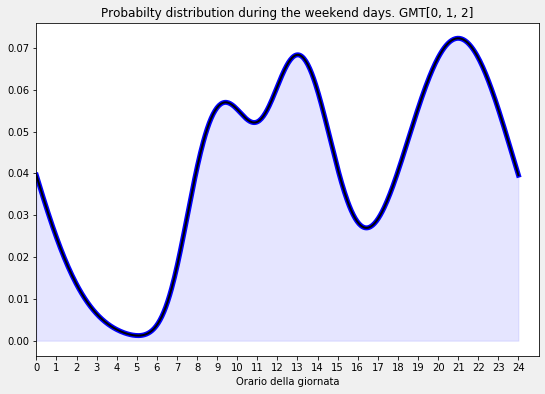
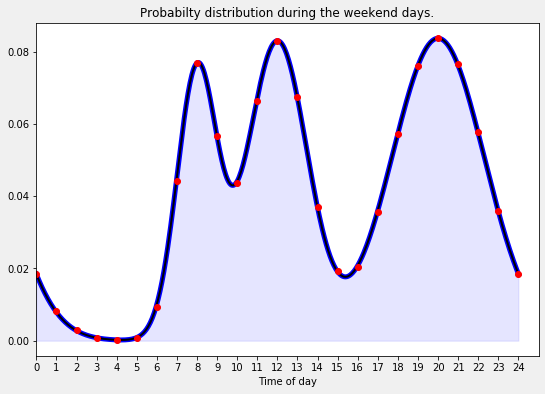
last changes

diff --git a/markov.py b/markov.py
@@ -70,7 +70,7 @@ if __name__ == "__main__":
     initial_state = "Entry"
     iterations = 11
 
-    offered_weight = [1, 3, 1.8, 0.01, 0.01, 0.01, 0.01, 15.5, 0.01, 0.01, 0.01]
+    offered_weight = [1, 1, 1, 1, 1, 1, 1, 150, 1, 1, 1]
 
     markov = MarkovAnalysis(states, initial_state, offered_weight)
 
@@ -95,8 +95,8 @@ if __name__ == "__main__":
     markov.add_transition("Visualizzare\nristorante",       "Scrivere\nrecensione",             0.10)
     markov.add_transition("Scrivere\nrecensione",           "Visualizzare\nristorante",         0.30)
     markov.add_transition("Scrivere\nrecensione",           "Caricamento file\nmultimediali",   0.50)
-    markov.add_transition("Aggiungere\npiatti",             "Visualizzare\nristorante",         0.30)
-    markov.add_transition("Aggiungere\npiatti",             "Paga",                             0.60)
+    markov.add_transition("Aggiungere\npiatti",             "Visualizzare\nristorante",         0.45)
+    markov.add_transition("Aggiungere\npiatti",             "Paga",                             0.45)
     markov.add_transition("Paga",                           "Naviga",                           0.25)
     markov.add_transition("Paga",                           "Ricerca",                          0.25)
 
@@ -122,12 +122,12 @@ if __name__ == "__main__":
 
     markov.show_history()
 
-    ax = pd.DataFrame(markov.states_probabilities_weighted[[0,1,2,7]] * 100).plot(kind='bar', rot=45)
+    ax = pd.DataFrame(markov.states_probabilities_weighted[[0,1,2,7]]).plot(kind='bar', rot=45)
     ax.set_xlabel("Azioni dell'utente")
-    ax.legend(["Peso dei trasferimenti relativo alla frequenza"])
+    ax.legend(["Peso sul network moltiplicato per la frequenza"])
     plt.show()
 
-    ax = pd.DataFrame(final_result * 100).plot(kind='bar', rot=45)
+    ax = pd.DataFrame(final_result).plot(kind='bar', rot=45)
     ax.set_xlabel("Azioni dell'utente")
     ax.legend(["Probabilità percentuale"])
     plt.show()

diff --git a/daily_workload.py b/daily_workload.py
@@ -45,7 +45,11 @@ class DailyGraph():
         fig, ax = plt.subplots(figsize=(9, 6))
         plt.plot(self._x, y, color='k', lw=2, path_effects=[
             pe.Stroke(linewidth=5, foreground='b'), pe.Normal()])
-        plt.plot(np.linspace(0, 24, 25), y[(np.linspace(0, 1, 25)*499).astype(np.int)], 'ro')
+
+        hour_function = y[(np.linspace(0, 1, 25)*499).astype(np.int)]
+        print(hour_function)
+
+        plt.plot(np.linspace(0, 24, 25), hour_function, 'ro')
         ax.fill_between(self._x, y, 0, alpha=0.1, color='b')
         ax.set_xlim([-0, 25])
         ax.set_xticks(np.arange(0, 25, 1))
@@ -67,8 +71,8 @@ def normal_day(time_shift=None):
 
 
 def weekend_day(time_shift=None):
-    weekend_day_data = DailyData(w_1=1.2/6, w_2=2/6, w_3=3.4/6, mu_1=8, mu_2=12,
-                                 mu_3=20, sigma_1=1, sigma_2=1.5, sigma_3=2.6)
+    weekend_day_data = DailyData(w_1=1.2/6, w_2=2/6, w_3=3.1/6, mu_1=8, mu_2=12,
+                                 mu_3=20, sigma_1=1, sigma_2=1.5, sigma_3=2.3)
     weekend_daily_graph = DailyGraph(weekend_day_data, time_shift=time_shift)
     weekend_daily_graph.run(file_name='week_end_daily_graph.png', title="Probabilty distribution during the weekend days." +
                             ((" GMT" + str(time_shift)) if time_shift != None else ""))
